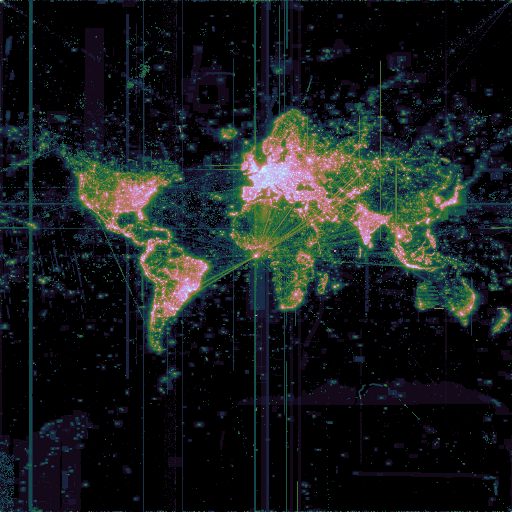
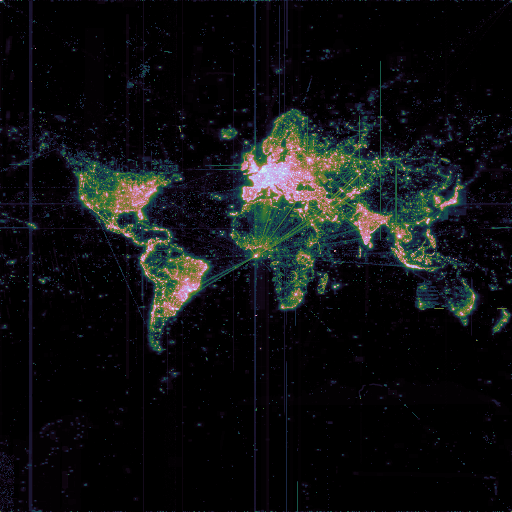
Update readme

diff --git a/README.md b/README.md
@@ -42,6 +42,21 @@ Only periods that have been aggregated by ofastlylog can have images generated
 #### `--max`
 Max value for the color scale. By default the max value is the maximum value found in the data but when comparing images from different times you want a fixed maximum.
 
+#### `--linear-width`
+Default: 10
+
+Width of the linear portion of the color scale. This adjusts how very low values are displayed.
+
+#### `--require-country`
+Default: none
+
+Filter to tile requests from a specific country. The value must be a two letter country code used by Fastly. To filter to multiple countries, use the option multiple times.
+
+### `--useragent`
+Default: none
+
+Filters to tile requests where the user agent is SQL LIKE this string.
+
 #### `--prefix`
 Default: `tiles-`
 
@@ -59,5 +74,5 @@ The image will be 2<super>zoom</super> pixels in both directions.
 If sending images to other it can help to run them through oxipng. This cuts the size down to about a third of before. A good set of options is
 
 ```sh
-oxipng --zc 12 -f 0,9 --fast -p -a tiles-*.png
+oxipng -f 0,9 --fast -p -a tiles-*.png
 ```
